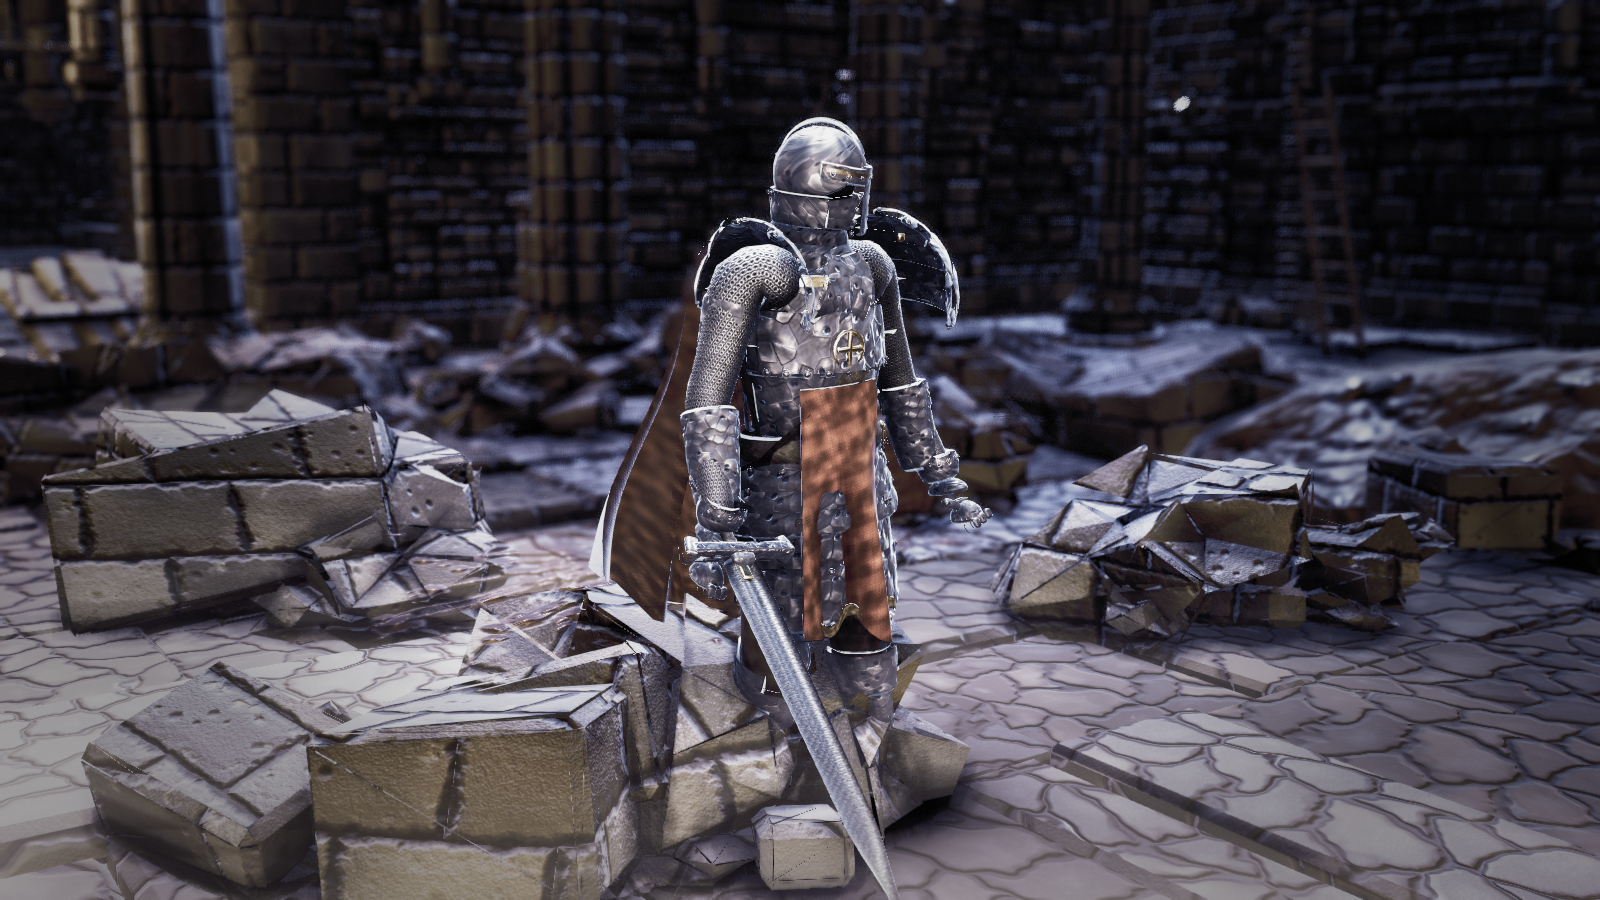
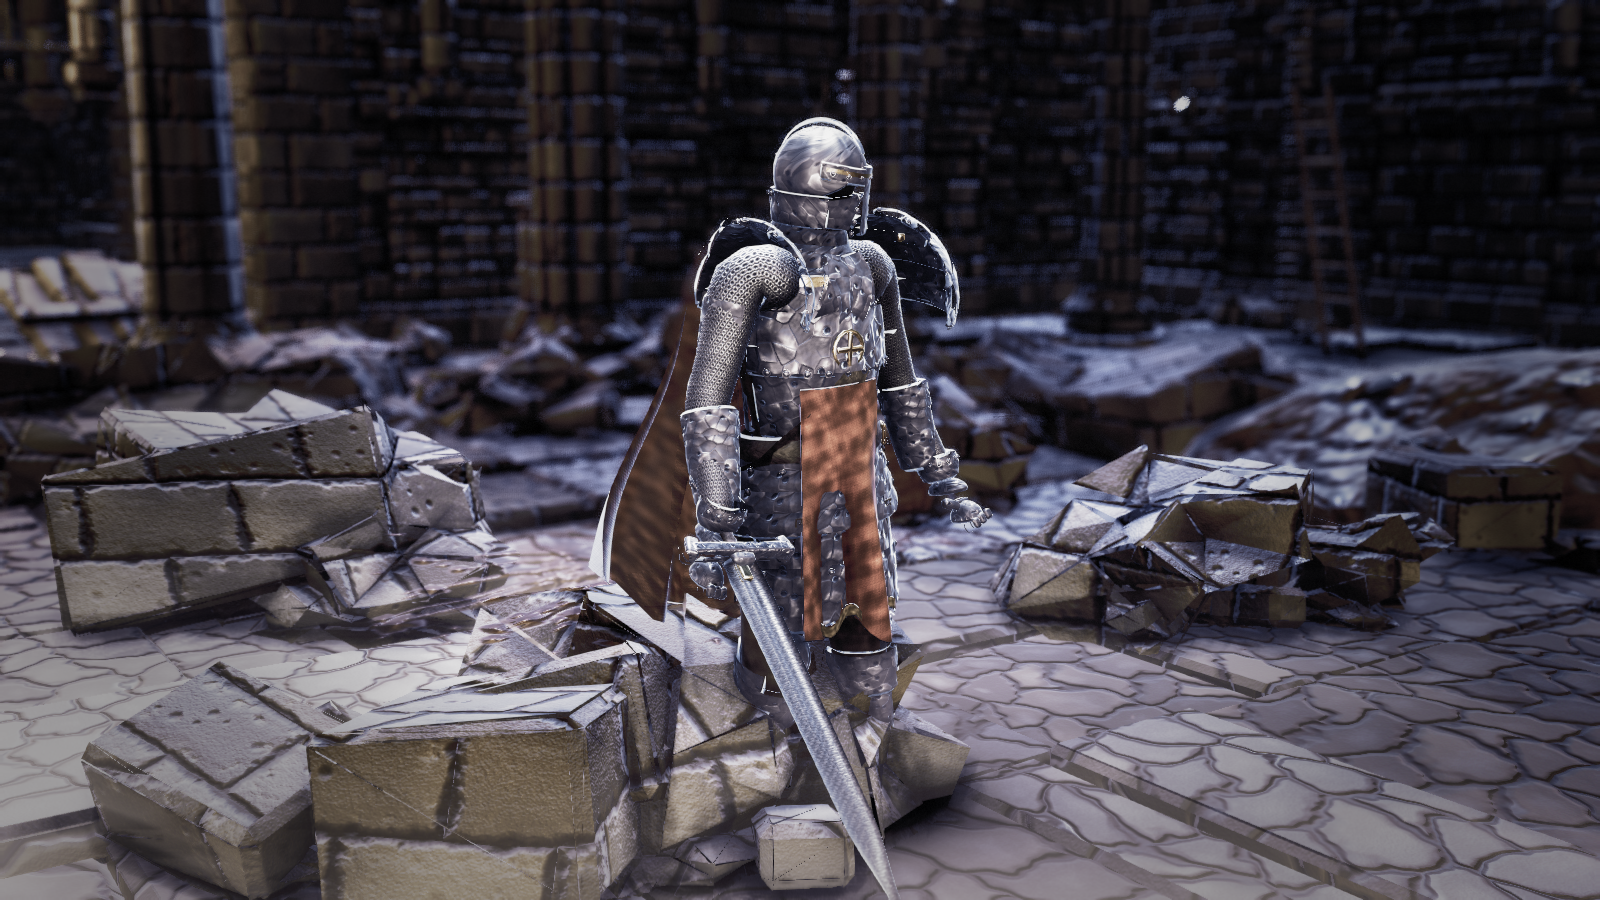
Keep the hero pool flat on interior floors so the floor stops sliding (#39)
## What was wrong
While walking in the crypt, a dark patch around the hero changed shape
every few steps, so the floor looked like it was sliding.

The cause is the hero grounding pool, a 5.6 m multiplicative darkening
quad. It was aligned to `terrain.normalAt` under the hero, but in an
interior the terrain surface is hidden under flat flagging, and that
normal belongs to the bumpy heightfield underneath.

Measured while walking (`hero.moveTo`, 120 ticks):

| | tilt | edge off the floor |
|---|---|---|
| before | 2.1–16.6° | up to 0.83 m |
| after | 0° | 0 m |

The pool's soft depth fade (`uSoft` 0.3 m) cut away whichever half
dipped under the slabs, so the dark area swung around the hero.

## Fix
`Lighting._updateHeroPool` resets the quad to flat and leans it onto the
terrain normal only while the terrain surface is visible. Exteriors
behave exactly as before.

## Evidence
- `overworld`, `hub`, `night` and `inventory` are identical to their
baselines.
- `dungeon` (0.5%), `combat` (2.5%), `boss` (2.4%) and `closeup` (11.1%)
changed. All of it is the pool now darkening evenly under the hero. In
`closeup`, the old tilt had left the lower-left floor undarkened.
- The four recaptured frames each repeat exactly on a second capture.
- `sheet --analyze` passes; `guard` and `diff.test` pass.

Ruled out on the way, with camera held still or moved alone: post passes
(TAA, motion blur, SSR, DOF, GTAO, grain, volumetrics, bloom), CSM, the
[…]

diff --git a/src/render/Lighting.js b/src/render/Lighting.js
@@ -1625,8 +1625,17 @@ uniform float nonaRimGain;  // per-material gain
     const bz = len > 1e-3 ? (_tmp.z / len) * bias : 0;
     pool.mesh.position.set(pos.x + bx, (Number.isFinite(pos.y) ? pos.y : 0) + 0.035, pos.z + bz);
 
+    /* Lean the quad onto the ground only when the terrain surface IS the ground.
+       An interior hides it and lays flat flagging over the top, but `normalAt`
+       still answers for the bumpy heightfield underneath: measured walking the
+       crypt, the quad tilted 2-17 degrees and lifted its edge up to 0.83 m off
+       a flat floor, changing every few steps. The soft depth fade then cut
+       away whichever half dipped under the slabs, so the dark patch swung
+       around the hero and read as the floor itself sliding. */
     const terrain = this.engine.get?.('terrain');
-    if (terrain && !terrain.__dead && typeof terrain.normalAt === 'function') {
+    const onTerrain = terrain && !terrain.__dead && terrain.group?.visible !== false;
+    pool.mesh.quaternion.identity();
+    if (onTerrain && typeof terrain.normalAt === 'function') {
       try {
         terrain.normalAt(pos.x, pos.z, _tmp);
         if (_tmp.lengthSq() > 1e-6) {

diff --git a/KNOWN_ISSUES.md b/KNOWN_ISSUES.md
@@ -11,7 +11,9 @@ git log -1 --format='%h %s' -- shots/        # minimap, motion blur, dynamic res
 The previous set (`3355968`) had drifted before that: fresh captures differed
 from `boss` by 85.6%, `hub` by 3.9% and `inventory` by 1.6% of pixels. The new
 set reproduces: seven frames byte-identical on a second capture, `night` within
-1-5 px at Δ ≤ 6/255.
+1-5 px at Δ ≤ 6/255. The four interiors (`boss`, `closeup`, `combat`, `dungeon`)
+were then retaken once more for the flat hero pool (0.5-11% of pixels, all of
+it the pool's darkening under the hero); each repeats exactly.
 
 The previous revision of this table said it was measured after the cascade fix
 `d2aad35`. That object is not in this repository (`git cat-file -t d2aad35` →
@@ -29,10 +31,10 @@ until the flags are at zero.
 
 | scenario | mean | sd | p01 | p99 | blk% | sat | colors | verdict |
 |---|---|---|---|---|---|---|---|---|
-| boss | 0.191 | 0.202 | 0 | 0.906 | 2.4 | 0.314 | 582 | in range |
-| closeup | 0.259 | 0.207 | 0 | 0.781 | 2.3 | 0.209 | 158 | in range |
-| combat | 0.281 | 0.211 | 0 | 0.875 | 1.1 | 0.269 | 446 | in range |
-| dungeon | 0.275 | 0.215 | 0 | 0.875 | 1.5 | 0.252 | 331 | in range |
+| boss | 0.191 | 0.201 | 0 | 0.906 | 2.4 | 0.314 | 583 | in range |
+| closeup | 0.259 | 0.207 | 0 | 0.781 | 2.3 | 0.210 | 158 | in range |
+| combat | 0.281 | 0.211 | 0 | 0.875 | 1.1 | 0.268 | 448 | in range |
+| dungeon | 0.275 | 0.215 | 0 | 0.875 | 1.5 | 0.252 | 330 | in range |
 | hub | 0.146 | 0.165 | 0 | 0.813 | 8.7 | 0.297 | 316 | in range |
 | inventory | 0.208 | 0.192 | 0 | 0.844 | 7.2 | 0.266 | 313 | in range |
 | night | 0.191 | 0.209 | 0 | 0.906 | 13.3 | 0.336 | 549 | in range |
